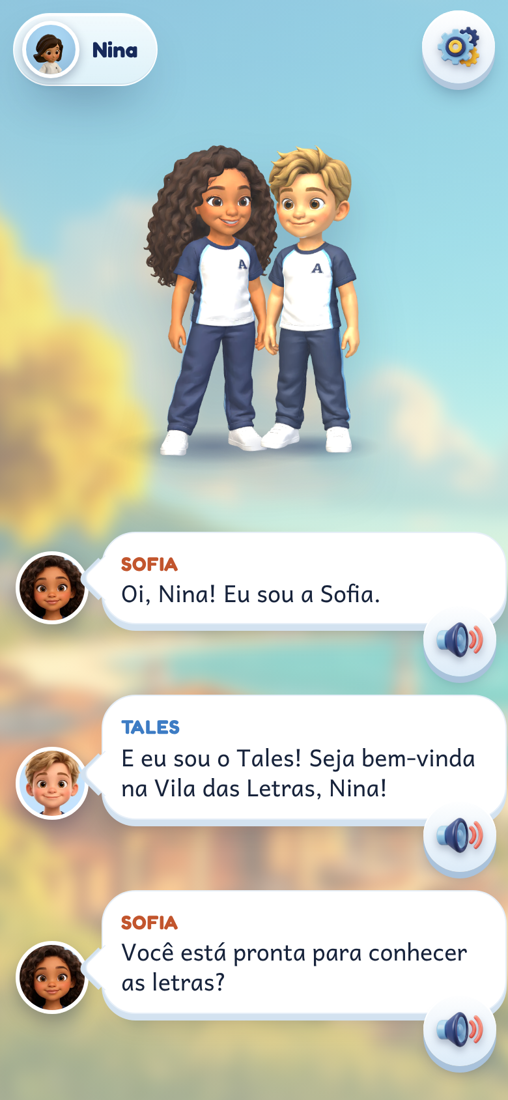
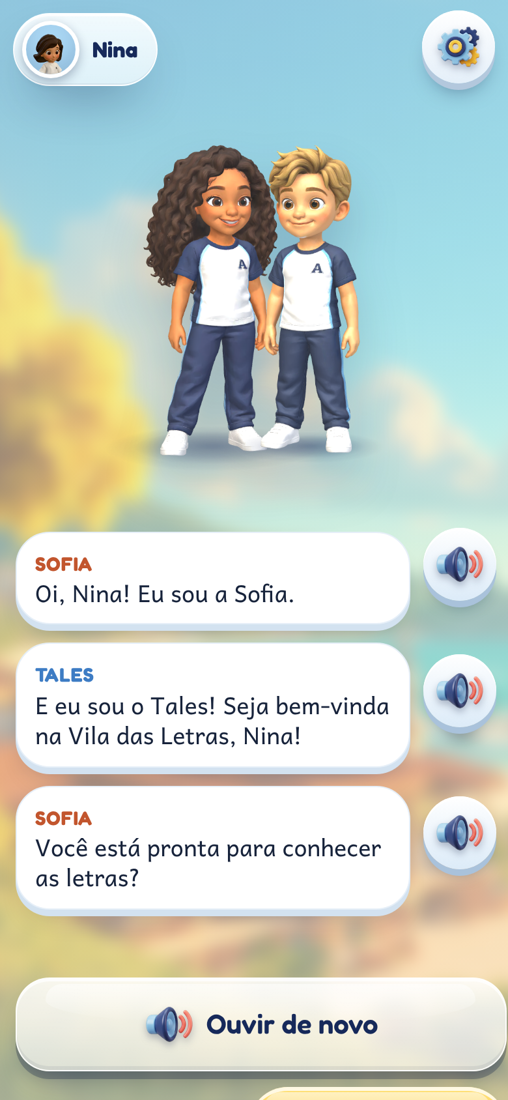
Revisão 18/11 (telas, 2ª volta): verificação registrada no ESTADO, capturas novas olhadas
Claude-Session: https://claude.ai/code/session_01XFnar5EqvbkeuXqeMQuF5Q

diff --git a/docs/ESTADO-ATUAL.md b/docs/ESTADO-ATUAL.md
@@ -9,6 +9,31 @@ da memória da conversa anterior.
 O dono vai continuar o trabalho com outro modelo (Opus). Tudo está no ramo `claude/eager-brahmagupta-3d2lhr`, com commit e push.
 **Nenhum agente está rodando**; não há trabalho pela metade fora do repositório.
 
+**Caça ao tesouro das palavras no passeio 3D (fila do dono nº 25; 18/11; NÃO publicado ainda):** pedido do dono: "um caça ao
+tesouro das palavras… desbravar na água, pegar o barco… um circulozinho… dicas tipo charada… vários níveis… ensinando a usar cada cenário".
+- **Onde:** ícone 🗺 no passeio (canto de cima, à direita) e cartão "Caça ao Tesouro" em Brincar → Jogos (só aparece com 3D; abre
+  `#/c/:id/mundo/caca`, direto no mapa da caça). Regras puras: `packages/motor/src/caca-tesouro.ts` (+ teste); falas e lugares:
+  `packages/conteudo/src/caca-tesouro.ts`; juiz no app: `web/src/telas/crianca/caca/useCacaTesouro.ts`; desenho: `mundo-3d-v2/js/caca-tesouro.js`
+  e `js/barco.js` (arquivos novos). Ganchos mínimos combinados: `passeio.js` ganhou `noQuadro(f)` e `usarVeiculo(v)` (linhas novas);
+  `passeio.html` 2 linhas (import e porta do barco); `Passeio3D.tsx` 1 hook + o barco abre com a chave; `App.tsx` passa `caca`.
+- **Níveis (D034: abre cedo e cresce):** (1) Caça aos sons: som puro de letra já ensinada, 3 baús com letras em pontos SORTEADOS da praça,
+  é preciso PARAR no círculo (passar correndo não responde); com 1–2 sons é aquecimento com figuras (exposição). (2) Letras da palavra:
+  palavra do Carteiro (verificador) em que cada letra faz o som de sempre (MALA sim, BOLA/DEDO não); a cada som a letra voa para a faixa;
+  ≥ 3 baús sempre; no fim lê e escolhe a figura entre 3 (formato `caca-palavra`). (3) Charadas da vila (abre depois do nível 1): charada
+  falada leva ao lugar (padaria, biblioteca, coreto, horta, campinho, escola, casa da Sofia, píer); o lugar é apresentado na 1ª vez (texto);
+  o baú abre com 3 letras e o som. Terminar dá a **chave do barquinho**. (4) Na água: beira rasa, fundo do rio (mergulho), debaixo da ponte
+  e outra margem (de barco).
+- **Barco:** porta do píer embarca (tutorial curto na 1ª vez, falado); setinhas/joystick/tocar remam; só anda no rio (para na margem);
+  "⚓ Descer do barco" só perto do píer. Não está à venda na Lojinha (a chave vem da caça).
+- **Registro:** escolha da letra e leitura final = avaliadas (`mecanica 'caca-tesouro'`, alvo, escolhido, tempo, nOpcoes, contexto 'livre');
+  achar o lugar = exposição; 2ª dica (seta/brilho) = `resposta-mostrada`. Grava no fim da rodada ou ao sair. Moedinhas do caminho são enfeite.
+- **Voz:** 20 falas novas da Sofia (charadas e instruções), 764 caracteres; auditoria: as 20 "ok"; bocas regeradas.
+- **Verificado:** typecheck, lint, `npm test` 445/445 (12 novos da caça); E2E `--caca` (trecho-caca.mjs, também no completo e no
+  `--sem-jornada`): RESULTADO_CACA
+- **Falta / limites:** ninguém jogou num aparelho de verdade; o barco anda em linha reta para onde se toca (numa curva do rio ele para
+  na margem e é preciso tocar de novo); as charadas são só de lugar (não de bilhete escrito: o "Bilhete do Tesouro" da pesquisa 47 G9
+  fica para quando houver frases decodificáveis prontas); trilha/peças da Lojinha não mudaram.
+
 **Revisão de qualidade 18/11 — frente de SOM, ESPERA e LÓGICA (fila do dono nº 23; 18/11; NÃO publicado ainda):** item a item em
 `docs/revisoes/qualidade-2026-11-18.md` ("Situação dos itens — frente de som, espera e lógica").
 - **Fila única de áudio** (`app/web/src/servicos/canal-audio.ts`, usada por `voz.ts`, `sons-letras.ts` e `sons-emendados.ts`): nunca
@@ -53,7 +78,10 @@ item a item está em `docs/revisoes/qualidade-2026-11-18.md` ("Situação dos it
   e Casa do Som (sala sem a dupla); troféu com arte sem texto (o 3D com "MESTRE LEITOR" em relevo não abre mais; o selo abre em 360°
   até haver um 3D sem texto, pela Foto → 3D); selo de letra com a letra no verso; balão sem retrato 2D onde a dupla 3D aparece; vila
   no computador com um botão só para a missão; "Ler sozinho" trancado sem o texto; painel guia com "Próxima: …".
-- **Falta (desta frente):** troféu 3D novo sem texto; moeda-fantasma do porquinho no tutorial; demonstração longa e os dois botões de
+  Verificado na 2ª volta: lint, typecheck e `npm test` (445 de 445); `--telas` 390×844 no commit `2faf93f` (44 telas, 0 problemas) e
+  1850×980 no `fbbde7f` (47 telas, 0 problemas; depois disso só mudou CSS de celular e a moedinha do tutorial). Capturas novas em
+  `app/docs/capturas/v11-telas-*` (Espelho no celular com as duas vistas, Corre-Som, Estrada, Casa do Som, chegada).
+- **Falta (desta frente):** troféu 3D novo sem texto; demonstração longa e os dois botões de
   som do Corre-Som no celular. Do avatar: boneco "todo branco" e o cinza carregando na Lojinha.
 
 **Avatar: olhos e tipos de cabelo; "robô" foto → 3D (fila do dono nº 20 e 19; 18/11; NÃO publicado ainda):**

diff --git a/docs/revisoes/qualidade-2026-11-18.md b/docs/revisoes/qualidade-2026-11-18.md
@@ -61,7 +61,7 @@ lado, todas as respostas inteiras sem rolar e sem nada por cima, "Voltar para a 
   cabide) e "Passear 3D" (vilinha); no tutorial, cada brincadeira com a figura 3D da capa. Troféu: arte nova sem texto
   (`modelos3d/trofeu.webp`); o modelo 3D antigo tem "MESTRE LEITOR" EM RELEVO na malha (apagar a pintura não basta), então o troféu
   conquistado abre o selo em 360° até haver um troféu 3D sem texto (pode ser feito na Área do administrador › Foto → 3D com a arte
-  nova). ⏸ a moeda-fantasma do porquinho no tutorial.
+  nova). A moeda-fantasma do porquinho no tutorial também saiu (a 2ª moedinha não fica parada antes de voar).
 - ✅ **24** Caminho da leitura: etapas futuras com cor, nome legível e cadeado pequeno.
 - ✅ **25** Tutorial: a mãozinha aponta o "Brincar" de cima, sem cobrir a palavra; no último passo só o "Vamos!".
 - ✅ **26** Vila no computador: os selos do "Última missão" sem o nome vazando; um botão grande só para a missão (o "Continuar" do
